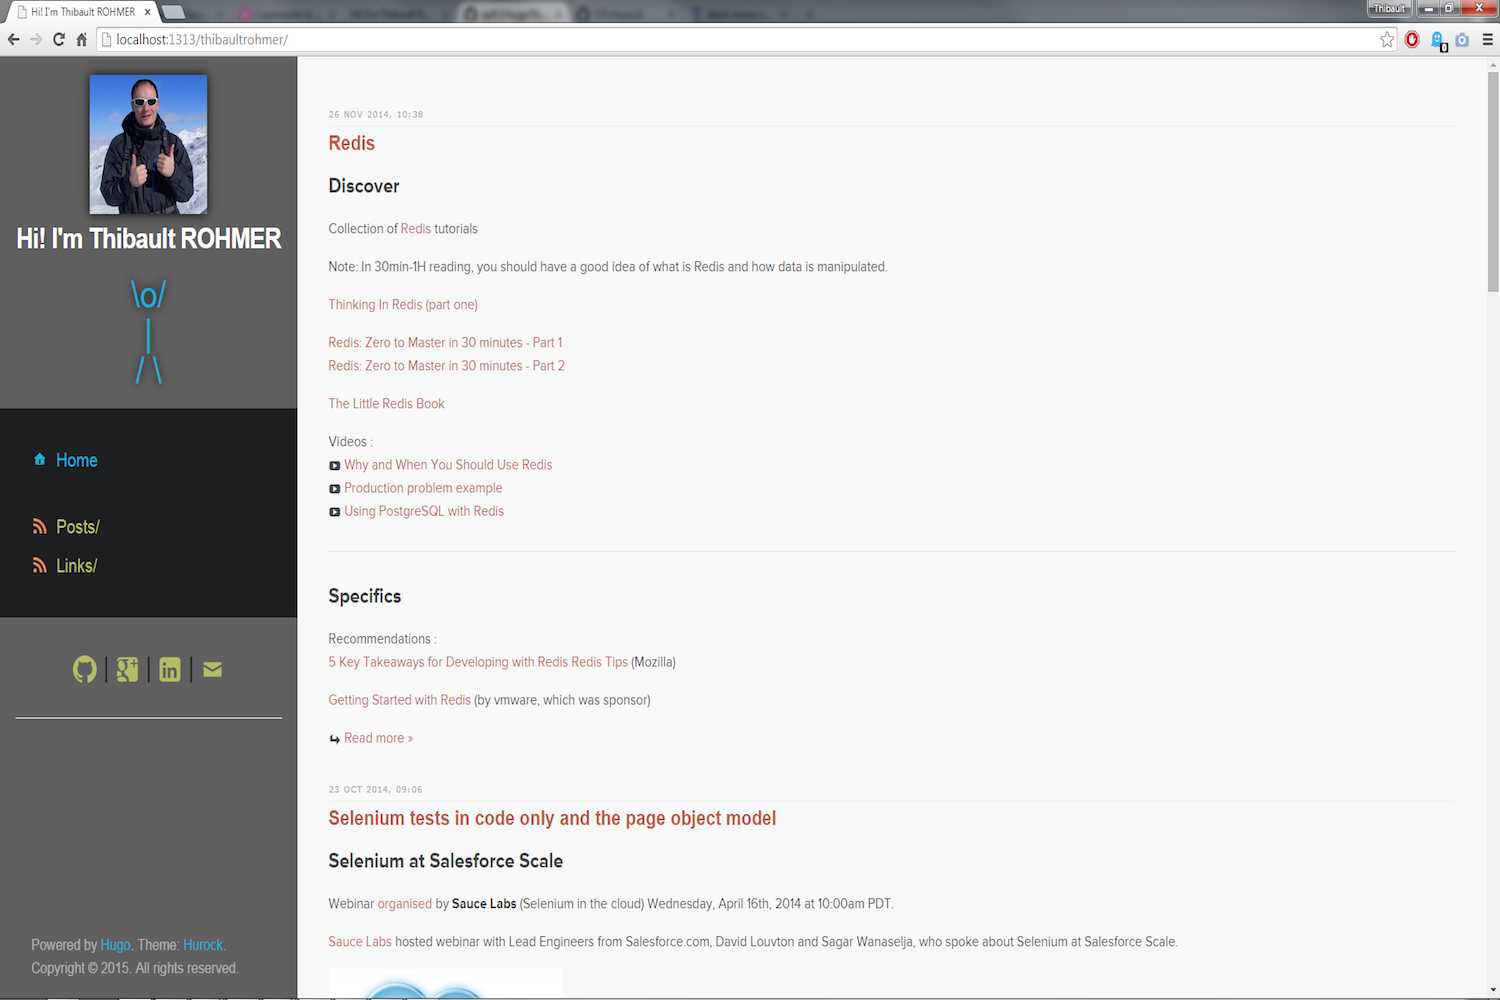
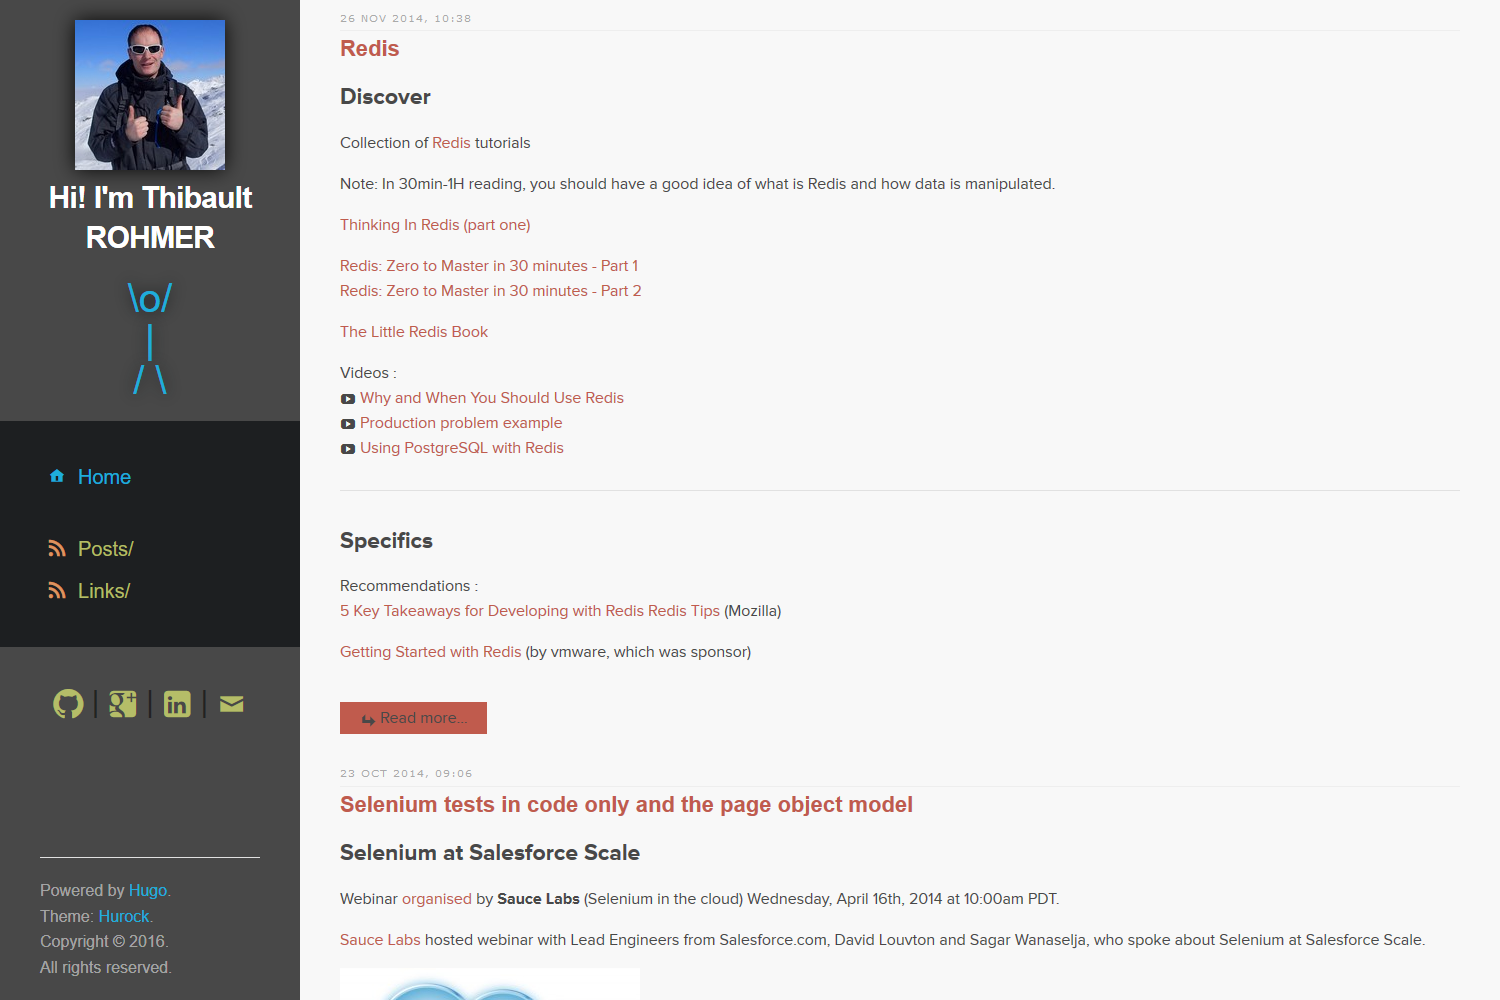
Improve responsive design
- Sidebar is now at top with low resolution and always visible by
default
- Enhance menus position in both mode
- Burger menu immediately shows the sidebar at the top of the screen and
put a mask on the page

Still done in CSS only

Other change:
"posts" and "links" categories look better when text is wrapping
(overflow: auto;)

Added new screenshots with proper resolution and no browser (used
firefox devtools)

diff --git a/static/css/custom.css b/static/css/custom.css
@@ -1,19 +1,14 @@
 /* layout
 –––––––––––––––––––––––––––––––––––––––––––––––––– */
 
-/* Explanations:
-
+/*
 - #fake-sidebar is present so that we can use both width:% and min-width on #sidebar
 Without min-width, it would look ugly at a certain point
 - Therefore #fake-sidebar and #sidebar have same width at any time
-- Sidebar disappear when width<800px
-- But a burger menu appear and use can use it to display sidebar again
 */
-
-#fake-sidebar,#sidebar {
+#fake-sidebar, #sidebar {
 width: 20%;
 min-width: 240px;
-transition: all 0.5s;
 }
 
 #sidebar {
@@ -21,6 +16,7 @@ position: fixed;
 top: 0;
 bottom: 0;
 left: 0;
+z-index: 2;
 }
 
 #flex-container {
@@ -33,88 +29,6 @@ position: relative;
 
 #container {
 flex: 1;
-z-index: 1;
-}
-
-#sidebar-menu-checkbox {
-/* Hide the checkbox */
-position: absolute;
-clip: rect(0, 0, 0, 0);
-}
-
-#sidebar-menu {
-position: fixed;
-display: none;
-top: 10px;
-left: 10px;
-z-index: 3;
-
-/* Burger menu */
-width: 24px;
-height: 4px;
-border-top: 12px double #000;
-border-bottom: 4px solid #000;
-cursor: pointer;
-}
-
-@media (max-width:800px) {
-  #fake-sidebar {
-    width: 0;
-    min-width: 0;
-  }
-  #sidebar-menu {
-    display: block;
-  }
-}
-
-#container-mask {
-display: none;
-position: absolute;
-width: 100%;
-height: 100%;
-opacity: 0.5;
-background-color: #222;
-z-index: 2;
-}
-
-/* Responsive layout when burger button is clicked */
-#sidebar-menu-checkbox:checked ~ #flex-container #fake-sidebar{
-/* We have to re-specify values here... */
-width: 20%;
-min-width: 240px;
-}
-#sidebar-menu-checkbox:checked + #sidebar-menu{
-/* Burger menu change color when used */
-border-color: #fff;
-}
-#sidebar-menu-checkbox:checked ~ #flex-container #container-mask{
-display: block;
-}
-#sidebar-menu-checkbox:checked ~ #flex-container{
-/* Without this, page has excess horizontal scroll when the menu is open and min-width is reached */
-overflow-x: hidden;
-}
-#sidebar-menu-checkbox:checked ~ #sidebar{
-/* Ability to scroll on mobile
-Unfortunately, it doesn't look that great on my mobile.
-Height doesn't go all the way to bottom. But it's better than position: fixed */
-position: absolute;
-}
-
-/* Restore things in case resolution change after hiting #sidebar-menu */
-@media (min-width:800px) {
-  #sidebar-menu-checkbox:checked ~ #flex-container #container-mask {
-    display: none;
-  }
-  #sidebar-menu-checkbox:checked ~ #flex-container{
-    overflow-x: initial;
-  }
-}
-
-@media print {
-  #sidebar,#fake-sidebar,#sidebar-menu {
-    display: none;
-  }
 }
 
 
@@ -172,7 +86,7 @@ margin: 20px -20px;
 padding: 20px;
 }
 .sidebar-nav-list {
-margin: 20px;
+margin: 20px 10%;
 list-style-type: none;
 }
 a.sidebar-link {
@@ -218,6 +132,10 @@ color: #b5bd68;
 color: #ffa;
 }
 
+.sidebar hr {
+margin: 2rem 0;
+}
+
 .sidebar-bottom {
 position: absolute;
 bottom: 0;
@@ -232,17 +150,6 @@ display: inline-block;
 }
 .sidebar-bottom a {
 text-decoration: none;
-}
-
-@media (max-height:865px) {
-  .sidebar-bottom {
-    display: none;
-  }
-}
-@media (max-width:1400px) {
-  .sidebar-bottom {
-    display: none;
-  }
 }
 
 
@@ -273,13 +180,17 @@ margin-bottom: 30px;
 }
 
 .section {
-width: 60%;
+width: 80%;
 margin: auto;
 font-size: 20px;
 }
 
 .section .posts {
 list-style-type: disc;
+}
+
+.section .posts li {
+overflow: auto;
 }
 
 .section .posts li a {
@@ -295,6 +206,129 @@ float: right;
 color: #c9c9c9;
 font-family: "Helvetica Neue", helvetica, "Open Sans", sans-serif;
 text-shadow: 1px 1px #fff;
+}
+
+
+/* Responsive Design
+–––––––––––––––––––––––––––––––––––––––––––––––––– */
+
+/*
+- Layout switched when width<800px (mobile experience): sidebar at top
+- A burger menu appear and we can use it to display menu at any vertical position
+*/
+
+#sidebar-menu, #sidebar-menu-checkbox {
+display: none;
+}
+
+@media (max-width:800px) {
+  #fake-sidebar, #sidebar {
+    transition: all 0.5s;
+  }
+  #sidebar-menu {
+    display: block;
+  }
+  #fake-sidebar {
+    width: 0;
+    min-width: 0;
+  }
+  #sidebar{
+    position: relative;
+    width: 100%;
+  }
+  #flex-container {
+    /* sidebar kept at bottom in source to put content first, so we have to reverse */
+    flex-direction: column-reverse;
+    margin-left: 0;
+  }
+  .sidebar-tagline {
+    display: none;
+  }
+  .sidebar-nav {
+    padding: 2px;
+  }
+  .sidebar-nav-list {
+    margin: 10px;
+    text-align: center;
+    display: flex;
+    justify-content: space-around;
+  }
+  .sidebar-nav-item {
+    display: inline-block;
+  }
+  .sidebar-nav-item,.sidebar-nav-item.nav-home {
+    margin-bottom: 0;
+  }
+  .sidebar-externals {
+    margin-top: 0;
+  }
+  #container {
+    padding: 1rem;
+  }
+  .section {
+    width: auto;
+  }
+}
+
+@media (max-height:865px) {
+  .sidebar-bottom {
+    display: none;
+  }
+}
+@media (max-width:1250px) {
+  .sidebar-bottom {
+    display: none;
+  }
+}
+
+#sidebar-menu {
+position: fixed;
+top: 10px;
+right: 10px;
+z-index: 3;
+
+/* Burger menu */
+width: 24px;
+height: 4px;
+border-top: 12px double #000;
+border-bottom: 4px solid #000;
+cursor: pointer;
+border-color: #c05b4d;
+}
+
+#container-mask {
+display: none;
+position: fixed;
+width: 100%;
+height: 100%;
+opacity: 0.5;
+background-color: #222;
+z-index: 1;
+}
+
+/* Responsive layout when burger button is clicked */
+#sidebar-menu-checkbox:checked ~ #sidebar {
+position: fixed;
+bottom: auto;
+}
+#sidebar-menu-checkbox:checked ~ #container-mask {
+display: block;
+}
+
+/* Restore things in case resolution change after hiting #sidebar-menu */
+@media (min-width:800px) {
+  #sidebar-menu-checkbox:checked ~ #sidebar{
+    position: relative;
+  }
+  #sidebar-menu-checkbox:checked ~ #container-mask {
+    display: none;
+  }
+}
+
+@media print {
+  #sidebar, #fake-sidebar, #sidebar-menu {
+    display: none;
+  }
 }
 
 

diff --git a/layouts/partials/flex-start.html b/layouts/partials/flex-start.html
@@ -1,7 +1,6 @@
-<input type="checkbox" id="sidebar-menu-checkbox" />
-<label for="sidebar-menu-checkbox" id="sidebar-menu"></label>
-
 <div id="flex-container">
-  <div id="fake-sidebar">:)</div>
-  <div id="container-mask"></div>
+  <input type="checkbox" id="sidebar-menu-checkbox" />
+  <label for="sidebar-menu-checkbox" id="sidebar-menu"></label>
+
+  <div id="fake-sidebar"></div>
   <div id="container">

diff --git a/layouts/partials/sidebar.html b/layouts/partials/sidebar.html
@@ -46,8 +46,8 @@
   {{ end }}
   | <a class="genericon genericon-mail" href="mailto:{{ .Site.Author.email }}"><!--Email--></a>
   </div>
-  <hr />
   <div class="sidebar-bottom">
+    <hr />
     <p>Powered by <a href="http://gohugo.io">Hugo</a>.</p> <p>Theme: <a href="https://github.com/TiTi/hurock">Hurock</a>.</p>
     <p>Copyright &copy; {{.Now.Format "2006"}}.</p> <p>All rights reserved.</p>
   </div>

diff --git a/layouts/partials/flex-end.html b/layouts/partials/flex-end.html
@@ -1,5 +1,5 @@
 {{ partial "copyright.html" . }}
   </div>
-</div>
-
+  <div id="container-mask"></div>
 {{ partial "sidebar.html" . }}
+</div>

diff --git a/README.md b/README.md
@@ -5,9 +5,13 @@ A classic sidebar Hugo theme
 
 # Screenshots
 
-index.html:
+Home page links:
 
 <img src="https://raw.githubusercontent.com/titi/hurock/master/images/screenshot1.png" width="800" />
+
+Home page posts:
+
+<img src="https://raw.githubusercontent.com/titi/hurock/master/images/screenshot.png" width="800" />
 
 List view:
 
@@ -21,16 +25,22 @@ Content view:
 
 <img src="https://raw.githubusercontent.com/titi/hurock/master/images/screenshot4.png" width="800" />
 
+Mobile:
+
+<img src="https://raw.githubusercontent.com/titi/hurock/master/images/screenshot5.png" />
+
 # Concept
 
 * No external ressources (js/css/fonts)
 * Easy to add stuff in header/footer
 * Syntax highlight on client side using [highlight.js](https://highlightjs.org/)
+* Responsive design
 * Shortcodes for vimeo/youtube/gist
 * W3C valid
  * Clean HTML
  * Sidebar after content
  * CSS in head, JS before end of body
+* Fun 404 page!
 
 Theme mostly insipred on theme `nofancy` but also: `hyde-x`, `lanyon`, `liquorice`, `purehugo`, `redlounge`.
 
